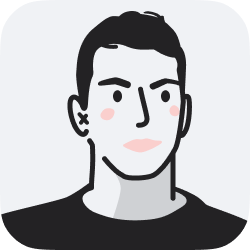
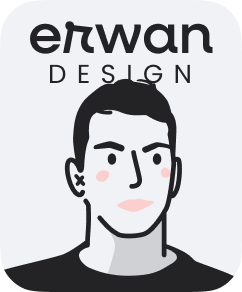
Add mail

Changed region(s): [[0.0, 0.028, 1.0, 1.0], [0.0868, 0.98, 0.2025, 1.0]]

diff --git a/mail.html b/mail.html
@@ -1,0 +1,50 @@
+<table data-mysignature-version="2018-10-17T05:29:06.676Z | 0" cellspacing="0" width="500" cellpadding="0" border="0">
+    <tr>
+        <td style="padding:5px 14px 0px 5px;vertical-align: top;" valign="top" width="100">
+            <a href="https://erwan-guillou.com">
+                <img alt="Immersiv" width="100" style="width:116px;border-radius:0%;" src="https://erwan-guillou.com/avatar.png" />
+            </a>
+        </td>
+        <td style="font-size:1em;padding:12px 0 0 1px;vertical-align: top;border-left: 1px solid #FFFFFF;" valign="top">
+            <table cellspacing="0" cellpadding="0" border="0" style="line-height: 1.3;font-family:Sans-serif;font-size:82%;color: #FFFFFF;">
+                <tr>
+                    <td>
+                        <span style="font-weight:600;font-size:18px;color:#232224;">Erwan Guillou</span>
+                    </td>
+                </tr>
+                <tr>
+                    <td style="font-size:15px;color:#232224;padding:1px 0px 10px 0px;">Product Designer</td>
+                </tr>
+                <tr>
+                    <td>
+                        <span style="font-size:12px; font-weight:600;color:#232224;">M:&nbsp;</span>
+                        <a href="mailto:salut@erwan-guillou.com" style="color: #232224; font-size:12px;text-decoration: underline;" target="_blank" title="Mail erwan">salut@erwan-guillou.com</a>
+                    </td>
+                </tr>
+                <tr>
+                    <td>
+                        <span style="font-size:12px; font-weight:600;color:#232224;">W:&nbsp;</span>
+                        <a href="https://erwan-guillou.com/" style="color: #232224; font-size:12px;text-decoration: underline;" target="_blank" title="Site erwan">erwan-guillou.com</a>
+                    </td>
+                </tr>
+                <tr>
+                    <td style="padding-top: 14px;">
+                        <table cellspacing="0" cellpadding="0" border="0">
+                            <tr>
+                                <td style="padding: 0 11px 0 0;">
+                                    <a href="https://dribbble.com/Erw_G/shots" style="color: #232224; font-size:12px;text-decoration: none;" target="_blank" title="Dribbble">Dribbble</a>
+                                </td>
+                                <td style="padding: 0 11px 0 0;">
+                                    <a href="https://www.instagram.com/erwan_gll/" style="color: #232224; font-size:12px;text-decoration: none;" target="_blank" title="Instagram">Instagram</a>
+                                </td>
+                                <td style="padding: 0 11px 0 0;">
+                                    <a href="https://www.linkedin.com/in/erwan-guillou-79975b118/" style="color: #232224; font-size:12px;text-decoration: none;" target="_blank" title="LinkedIn">LinkedIn</a>
+                                </td>
+                            </tr>
+                        </table>
+                    </td>
+                </tr>
+            </table>
+        </td>
+    </tr>
+</table>
